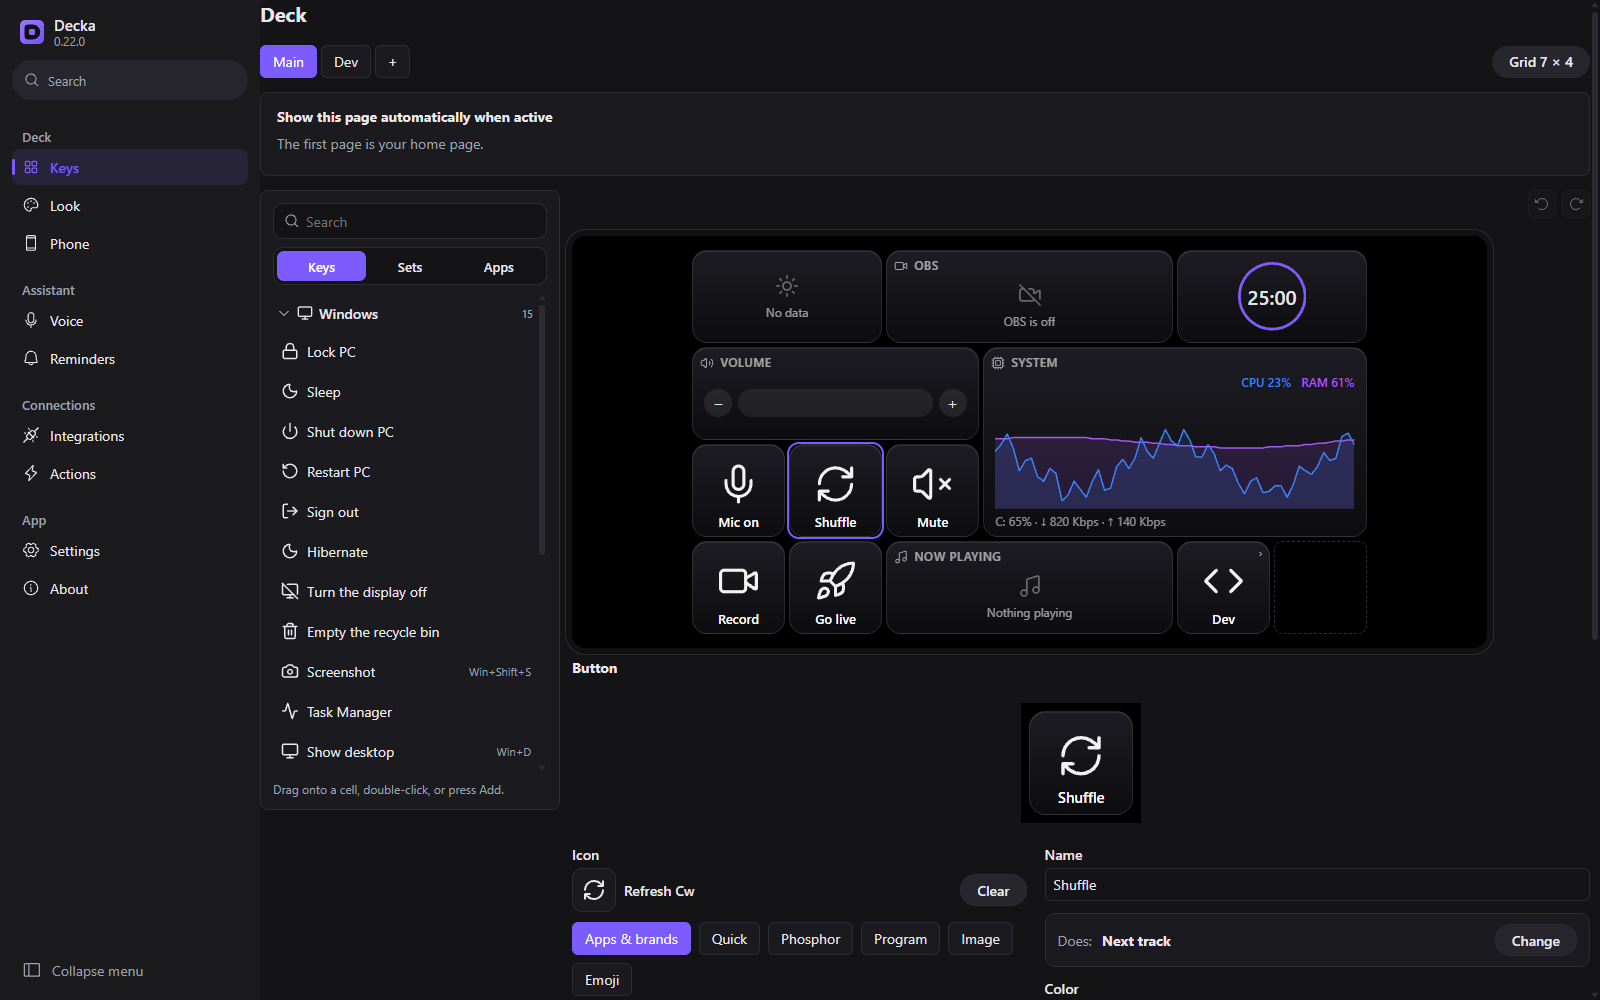
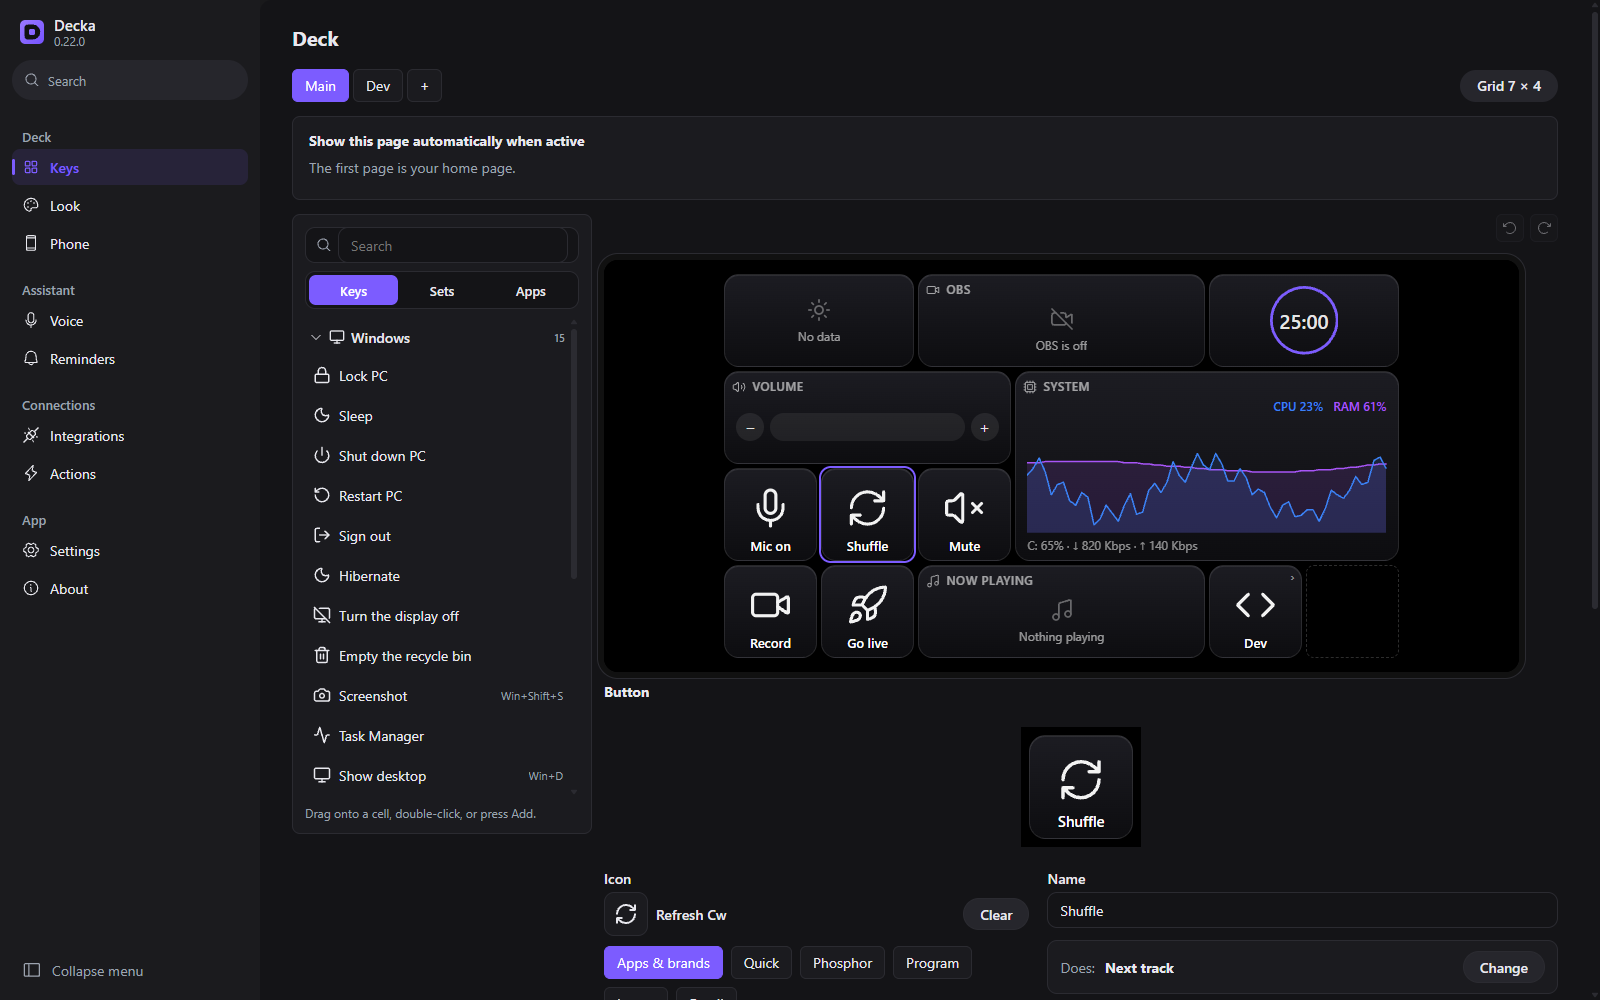
T25.x: move remaining dialogs to Modal, wrap phone segmented rows, refresh settings shots

diff --git a/agent/src/editor/SequenceEditor.tsx b/agent/src/editor/SequenceEditor.tsx
@@ -2,6 +2,7 @@ import { useEffect, useMemo, useRef, useState } from "react";
 import { dropIndex, moveStep } from "./seqOps";
 import { SEQUENCE_LIMITS, t, validateActions, type Action, type ActionsFile, type SequenceStep } from "@decka/shared";
 import Button from "../ui/Button";
+import Modal from "../ui/Modal";
 import PhIcon from "../ui/PhIcon";
 import Select from "../ui/Select";
 
@@ -60,64 +61,67 @@ export default function SequenceEditor({ actions, onSave, onClose }: SequencePro
   };
 
   return (
-    <div className="dialog-backdrop" onPointerDown={onClose}>
-      <div className="dialog sequence-dialog" role="dialog" aria-label={t("seq.title")} onPointerDown={(e) => e.stopPropagation()}>
-        <h2>{t("seq.title")}</h2>
-        <label className="field-row">
-          <span>{t("seq.name")}</span>
-          <input value={name} maxLength={60} onChange={(e) => setName(e.target.value)} />
-        </label>
-        <p className="muted">{t("seq.help")}</p>
-        {choices.length === 0 && <p className="warn-text">{t("seq.no_actions")}</p>}
-        <ol className="seq-steps" ref={list}>
-          {steps.map((step, i) => (
-            <li key={i} className={`seq-step${drag?.from === i ? " dragging" : ""}${drag && drag.over === i && drag.from !== i ? (drag.over > drag.from ? " drop-after" : " drop-before") : ""}`}>
-              <span
-                className="seq-handle"
-                role="button"
-                aria-label={t("seq.drag")}
-                title={t("seq.drag")}
-                onPointerDown={(e) => startDrag(e, i)}
-                onPointerMove={dragMove}
-                onPointerUp={dragEnd}
-                onPointerCancel={() => setDrag(null)}
-              >
-                <PhIcon name="dots-six-vertical" size={16} />
-              </span>
-              {"delayMs" in step ? (
-                <>
-                  <PhIcon name="timer" size={18} />
-                  <span>{t("seq.wait")}</span>
-                  <input type="number" min={SEQUENCE_LIMITS.delayMin} max={SEQUENCE_LIMITS.delayMax} step={50} value={step.delayMs} onChange={(e) => set(i, { delayMs: Number(e.target.value) })} />
-                  <span className="muted">{t("seq.ms")}</span>
-                </>
-              ) : (
-                <Select
-                  aria-label={t("seq.pick")}
-                  value={step.actionId}
-                  placeholder={t("seq.pick")}
-                  options={choices.map(([id, a]) => ({ value: id, label: a.name }))}
-                  onChange={(val) => set(i, { actionId: val })}
-                />
-              )}
-              <button type="button" className="icon-btn" aria-label={t("seq.up")} disabled={i === 0} onClick={() => move(i, -1)}><PhIcon name="arrow-up" size={14} /></button>
-              <button type="button" className="icon-btn" aria-label={t("seq.down")} disabled={i === steps.length - 1} onClick={() => move(i, 1)}><PhIcon name="arrow-down" size={14} /></button>
-              <button type="button" className="icon-btn" aria-label={t("seq.remove")} onClick={() => setSteps((list) => list.filter((_, n) => n !== i))}><PhIcon name="x" size={14} /></button>
-            </li>
-          ))}
-        </ol>
-        <div className="row">
-          <Button disabled={full || choices.length === 0} onClick={() => setSteps((l) => [...l, { actionId: "" }])}>{t("seq.add_step")}</Button>
-          <Button disabled={full} onClick={() => setSteps((l) => [...l, { delayMs: DEFAULT_WAIT_MS }])}>{t("seq.wait")}</Button>
-          <span className="grow" />
-          <span className="muted">{t("seq.summary", { steps: steps.length, seconds: Math.round(totalMs / 100) / 10 })}</span>
-        </div>
-        {issues.length > 0 && <ul className="warn-text">{issues.map((i, n) => <li key={n}>{i.message}</li>)}</ul>}
-        <div className="row">
-          <Button variant="primary" disabled={steps.length === 0 || steps.some((s) => "actionId" in s && s.actionId === "") || issues.length > 0} onClick={() => onSave(draft.name, steps)}>{t("seq.save")}</Button>
+    <Modal
+      title={t("seq.title")}
+      subtitle={t("seq.help")}
+      onClose={onClose}
+      className="sequence-dialog"
+      footer={
+        <>
           <Button onClick={onClose}>{t("common.cancel")}</Button>
-        </div>
+          <Button variant="primary" disabled={steps.length === 0 || steps.some((s) => "actionId" in s && s.actionId === "") || issues.length > 0} onClick={() => onSave(draft.name, steps)}>{t("seq.save")}</Button>
+        </>
+      }
+    >
+      <label className="field-row">
+        <span>{t("seq.name")}</span>
+        <input value={name} maxLength={60} onChange={(e) => setName(e.target.value)} />
+      </label>
+      {choices.length === 0 && <p className="warn-text">{t("seq.no_actions")}</p>}
+      <ol className="seq-steps" ref={list}>
+        {steps.map((step, i) => (
+          <li key={i} className={`seq-step${drag?.from === i ? " dragging" : ""}${drag && drag.over === i && drag.from !== i ? (drag.over > drag.from ? " drop-after" : " drop-before") : ""}`}>
+            <span
+              className="seq-handle"
+              role="button"
+              aria-label={t("seq.drag")}
+              title={t("seq.drag")}
+              onPointerDown={(e) => startDrag(e, i)}
+              onPointerMove={dragMove}
+              onPointerUp={dragEnd}
+              onPointerCancel={() => setDrag(null)}
+            >
+              <PhIcon name="dots-six-vertical" size={16} />
+            </span>
+            {"delayMs" in step ? (
+              <>
+                <PhIcon name="timer" size={18} />
+                <span>{t("seq.wait")}</span>
+                <input type="number" min={SEQUENCE_LIMITS.delayMin} max={SEQUENCE_LIMITS.delayMax} step={50} value={step.delayMs} onChange={(e) => set(i, { delayMs: Number(e.target.value) })} />
+                <span className="muted">{t("seq.ms")}</span>
+              </>
+            ) : (
+              <Select
+                aria-label={t("seq.pick")}
+                value={step.actionId}
+                placeholder={t("seq.pick")}
+                options={choices.map(([id, a]) => ({ value: id, label: a.name }))}
+                onChange={(val) => set(i, { actionId: val })}
+              />
+            )}
+            <button type="button" className="icon-btn" aria-label={t("seq.up")} disabled={i === 0} onClick={() => move(i, -1)}><PhIcon name="arrow-up" size={14} /></button>
+            <button type="button" className="icon-btn" aria-label={t("seq.down")} disabled={i === steps.length - 1} onClick={() => move(i, 1)}><PhIcon name="arrow-down" size={14} /></button>
+            <button type="button" className="icon-btn" aria-label={t("seq.remove")} onClick={() => setSteps((list) => list.filter((_, n) => n !== i))}><PhIcon name="x" size={14} /></button>
+          </li>
+        ))}
+      </ol>
+      <div className="row">
+        <Button disabled={full || choices.length === 0} onClick={() => setSteps((l) => [...l, { actionId: "" }])}>{t("seq.add_step")}</Button>
+        <Button disabled={full} onClick={() => setSteps((l) => [...l, { delayMs: DEFAULT_WAIT_MS }])}>{t("seq.wait")}</Button>
+        <span className="grow" />
+        <span className="muted">{t("seq.summary", { steps: steps.length, seconds: Math.round(totalMs / 100) / 10 })}</span>
       </div>
-    </div>
+      {issues.length > 0 && <ul className="warn-text">{issues.map((i, n) => <li key={n}>{i.message}</li>)}</ul>}
+    </Modal>
   );
 }

diff --git a/agent/src/tabs/IntegrationsTab.tsx b/agent/src/tabs/IntegrationsTab.tsx
@@ -18,6 +18,7 @@ import LyricsSection from "./LyricsSection";
 import { lyricsGet, lyricsOverlaySet, lyricsSet } from "./lyricsIpc";
 import Switch from "../ui/Switch";
 import Disclosure from "../ui/Disclosure";
+import Modal from "../ui/Modal";
 import {
   filterIntegrations,
   type IntegrationCategory,
@@ -367,37 +368,12 @@ export default function IntegrationsTab() {
             </Group>
 
             {editing && (
-              <div className="dialog-backdrop">
-                <div className="dialog" role="dialog" aria-label={t("integ.check")}>
-                  <h2>{editing.index < 0 ? t("integ.add_check") : t("integ.edit_check")}</h2>
-                  <Field label={t("integ.check_name")}>
-                    <input autoFocus value={editing.check.label} onChange={(e) => setEditing({ ...editing, check: { ...editing.check, label: e.target.value } })} />
-                  </Field>
-                  <Field label={t("integ.check_address")}>
-                    <input value={editing.check.url} onChange={(e) => setEditing({ ...editing, check: { ...editing.check, url: e.target.value } })} />
-                  </Field>
-                  <Disclosure title={t("common.more_options")}>
-                    <div className="grid-4">
-                      <Field label={t("integ.check_every")}>
-                        <input type="number" value={editing.check.intervalSec} onChange={(e) => setEditing({ ...editing, check: { ...editing.check, intervalSec: Number(e.target.value) } })} />
-                      </Field>
-                      <Field label={t("integ.give_up")}>
-                        <input type="number" value={editing.check.timeoutSec} onChange={(e) => setEditing({ ...editing, check: { ...editing.check, timeoutSec: Number(e.target.value) } })} />
-                      </Field>
-                      <Field label={t("integ.expected")} hint={t("integ.expected_hint")}>
-                        <input
-                          type="number"
-                          placeholder="200"
-                          value={editing.check.expectStatus ?? ""}
-                          onChange={(e) => setEditing({ ...editing, check: { ...editing.check, expectStatus: e.target.value === "" ? undefined : Number(e.target.value) } })}
-                        />
-                      </Field>
-                      <Field label={t("integ.group")}>
-                        <input value={editing.check.group ?? ""} onChange={(e) => setEditing({ ...editing, check: { ...editing.check, group: e.target.value || undefined } })} />
-                      </Field>
-                    </div>
-                  </Disclosure>
-                  <div className="row">
+              <Modal
+                title={editing.index < 0 ? t("integ.add_check") : t("integ.edit_check")}
+                onClose={() => setEditing(null)}
+                footer={
+                  <>
+                    <Button onClick={() => setEditing(null)}>{t("common.cancel")}</Button>
                     <Button
                       variant="primary"
                       onClick={() => {
@@ -408,10 +384,37 @@ export default function IntegrationsTab() {
                     >
                       {t("common.save")}
                     </Button>
-                    <Button onClick={() => setEditing(null)}>{t("common.cancel")}</Button>
+                  </>
+                }
+              >
+                <Field label={t("integ.check_name")}>
+                  <input autoFocus value={editing.check.label} onChange={(e) => setEditing({ ...editing, check: { ...editing.check, label: e.target.value } })} />
+                </Field>
+                <Field label={t("integ.check_address")}>
+                  <input value={editing.check.url} onChange={(e) => setEditing({ ...editing, check: { ...editing.check, url: e.target.value } })} />
+                </Field>
+                <Disclosure title={t("common.more_options")}>
+                  <div className="grid-4">
+                    <Field label={t("integ.check_every")}>
+                      <input type="number" value={editing.check.intervalSec} onChange={(e) => setEditing({ ...editing, check: { ...editing.check, intervalSec: Number(e.target.value) } })} />
+                    </Field>
+                    <Field label={t("integ.give_up")}>
+                      <input type="number" value={editing.check.timeoutSec} onChange={(e) => setEditing({ ...editing, check: { ...editing.check, timeoutSec: Number(e.target.value) } })} />
+                    </Field>
+                    <Field label={t("integ.expected")} hint={t("integ.expected_hint")}>
+                      <input
+                        type="number"
+                        placeholder="200"
+                        value={editing.check.expectStatus ?? ""}
+                        onChange={(e) => setEditing({ ...editing, check: { ...editing.check, expectStatus: e.target.value === "" ? undefined : Number(e.target.value) } })}
+                      />
+                    </Field>
+                    <Field label={t("integ.group")}>
+                      <input value={editing.check.group ?? ""} onChange={(e) => setEditing({ ...editing, check: { ...editing.check, group: e.target.value || undefined } })} />
+                    </Field>
                   </div>
-                </div>
-              </div>
+                </Disclosure>
+              </Modal>
             )}
           </div>
         )}

diff --git a/agent/src/editor/AskDialog.tsx b/agent/src/editor/AskDialog.tsx
@@ -1,6 +1,7 @@
 import { useEffect, useState } from "react";
 import { getLanguage, pickText, t, type Answer, type CatalogItem, type Page } from "@decka/shared";
 import Button from "../ui/Button";
+import Modal from "../ui/Modal";
 import Select from "../ui/Select";
 import { actionFromUrl } from "./addButton";
 import ChordField from "./ChordField";
@@ -57,43 +58,46 @@ export default function AskDialog({ item, pages, currentPageId, obs, onConfirm, 
   const needsObs = (item.ask === "obs_scene" || item.ask === "obs_input") && obs === null;
   const empty = !needsObs && (item.ask === "obs_scene" || item.ask === "obs_input" || item.ask === "page") && options.length === 0;
   return (
-    <div className="dialog-backdrop" onPointerDown={onClose}>
-      <div className="dialog ask-dialog" role="dialog" aria-label={title} onPointerDown={(e) => e.stopPropagation()}>
-        <h2>{pickText(item.name, lang)}</h2>
-        <strong>{title}</strong>
-        {item.ask === "url" && (
-          <input autoFocus placeholder="github.com" aria-label={title} value={url} onChange={(e) => { setUrl(e.target.value); setError(null); }} onKeyDown={(e) => e.key === "Enter" && confirm()} />
-        )}
-        {item.ask === "text" && (
-          <input autoFocus maxLength={item.action?.type === "youtube" ? 200 : 500} aria-label={title} value={text} onChange={(e) => { setText(e.target.value); setError(null); }} onKeyDown={(e) => e.key === "Enter" && confirm()} />
-        )}
-        {item.ask === "keys" && <ChordField keys={keys} onChange={(k) => { setKeys(k); setError(null); }} />}
-        {needsObs && (
-          <>
-            <p className="muted">{t("ask.connect_obs")}</p>
-            <div className="row"><Button onClick={onOpenObs}>{t("ask.open_obs")}</Button></div>
-          </>
-        )}
-        {!needsObs && item.ask !== "url" && item.ask !== "keys" && item.ask !== "text" && (
-          empty ? (
-            <p className="muted">{item.ask === "page" ? t("ask.no_pages") : t("ask.connect_obs")}</p>
-          ) : (
-            <Select
-              autoFocus
-              aria-label={title}
-              value={choice}
-              placeholder={t("ask.choose")}
-              options={options.map((o) => ({ value: o.id, label: o.label }))}
-              onChange={(val) => { setChoice(val); setError(null); }}
-            />
-          )
-        )}
-        {error && <small className="warn-text">{error}</small>}
-        <div className="row">
-          <Button variant="primary" disabled={needsObs || empty} onClick={confirm}>{t("library.add")}</Button>
+    <Modal
+      title={pickText(item.name, lang)}
+      subtitle={title}
+      onClose={onClose}
+      className="ask-dialog"
+      footer={
+        <>
           <Button onClick={onClose}>{t("common.cancel")}</Button>
-        </div>
-      </div>
-    </div>
+          <Button variant="primary" disabled={needsObs || empty} onClick={confirm}>{t("library.add")}</Button>
+        </>
+      }
+    >
+      {item.ask === "url" && (
+        <input autoFocus placeholder="github.com" aria-label={title} value={url} onChange={(e) => { setUrl(e.target.value); setError(null); }} onKeyDown={(e) => e.key === "Enter" && confirm()} />
+      )}
+      {item.ask === "text" && (
+        <input autoFocus maxLength={item.action?.type === "youtube" ? 200 : 500} aria-label={title} value={text} onChange={(e) => { setText(e.target.value); setError(null); }} onKeyDown={(e) => e.key === "Enter" && confirm()} />
+      )}
+      {item.ask === "keys" && <ChordField keys={keys} onChange={(k) => { setKeys(k); setError(null); }} />}
+      {needsObs && (
+        <>
+          <p className="muted">{t("ask.connect_obs")}</p>
+          <div className="row"><Button onClick={onOpenObs}>{t("ask.open_obs")}</Button></div>
+        </>
+      )}
+      {!needsObs && item.ask !== "url" && item.ask !== "keys" && item.ask !== "text" && (
+        empty ? (
+          <p className="muted">{item.ask === "page" ? t("ask.no_pages") : t("ask.connect_obs")}</p>
+        ) : (
+          <Select
+            autoFocus
+            aria-label={title}
+            value={choice}
+            placeholder={t("ask.choose")}
+            options={options.map((o) => ({ value: o.id, label: o.label }))}
+            onChange={(val) => { setChoice(val); setError(null); }}
+          />
+        )
+      )}
+      {error && <small className="warn-text">{error}</small>}
+    </Modal>
   );
 }

diff --git a/agent/src/tabs/OrientationSection.tsx b/agent/src/tabs/OrientationSection.tsx
@@ -4,6 +4,7 @@ import { EMPTY_DATA, GlassLayer, Grid, resolveTheme } from "@decka/ui";
 import { call } from "../ipc";
 import Banner from "../ui/Banner";
 import Button from "../ui/Button";
+import Modal from "../ui/Modal";
 import PhIcon from "../ui/PhIcon";
 import PhoneFrame from "./PhoneFrame";
 
@@ -112,19 +113,21 @@ export default function OrientationSection({ orientation, onChanged }: Props) {
       {error && <Banner kind="error">{error}</Banner>}
       {message && <Banner kind="success">{message}</Banner>}
       {pending && (
-        <div className="dialog-backdrop">
-          <div className="dialog" role="dialog" aria-label={t("orientation.title")}>
-            <h2>{t(`orientation.turn_to_${pending.to}`)}</h2>
-            <Preview layout={pending.layout} />
-            <p className="muted">{pending.moved > 0 ? tn("orientation.moved", pending.moved) : t("orientation.nothing_moved")}</p>
-            <div className="row">
+        <Modal
+          title={t(`orientation.turn_to_${pending.to}`)}
+          onClose={() => setPending(null)}
+          footer={
+            <>
+              <Button onClick={() => setPending(null)}>{t("common.cancel")}</Button>
               <Button variant="primary" onClick={() => void confirm()}>
                 {t("orientation.rotate")}
               </Button>
-              <Button onClick={() => setPending(null)}>{t("common.cancel")}</Button>
-            </div>
-          </div>
-        </div>
+            </>
+          }
+        >
+          <Preview layout={pending.layout} />
+          <p className="muted" style={{ margin: 0 }}>{pending.moved > 0 ? tn("orientation.moved", pending.moved) : t("orientation.nothing_moved")}</p>
+        </Modal>
       )}
     </>
   );

diff --git a/agent/src/styles.css b/agent/src/styles.css
@@ -902,8 +902,7 @@ select.settings-select,
 .chip { display: inline-flex; align-items: center; gap: 4px; padding: 2px 4px 2px 10px; border: 1px solid var(--border); border-radius: 999px; background: var(--bg); font-family: Consolas, "Cascadia Mono", monospace; font-size: 13px; }
 .chip-x { border: 0; background: transparent; color: var(--muted); font-size: 16px; line-height: 1; cursor: pointer; padding: 0 6px; }
 .chip-x:hover { color: var(--danger); }
-.dialog-backdrop { position: fixed; inset: 0; z-index: 50; display: flex; align-items: center; justify-content: center; background: rgba(0, 0, 0, 0.45); }
-.dialog { display: flex; flex-direction: column; gap: 12px; width: min(640px, 92vw); max-height: 86vh; overflow: auto; padding: 20px 22px; border: 1px solid var(--border); border-radius: 10px; background: var(--bg); }
+.modal-backdrop { position: fixed; inset: 0; z-index: 50; display: flex; align-items: center; justify-content: center; background: rgba(0, 0, 0, 0.45); }
 /* Appearance, first-run guide, side menu (T13.10) */
 .tab { display: flex; align-items: center; gap: 10px; }
 .theme-cards { display: grid; grid-template-columns: repeat(auto-fill, minmax(230px, 1fr)); gap: 12px; }

diff --git a/client/src/styles.css b/client/src/styles.css
@@ -354,9 +354,12 @@ input { user-select: text; touch-action: manipulation; }
 .phone-row-icon { flex: none; color: var(--sheet-muted); }
 .phone-row-icon.accent { color: var(--accent, #7c5cff); }
 .phone-row-label { flex: 1; min-width: 0; }
+.phone-row:has(.phone-seg),
 .phone-row-wrap { flex-wrap: wrap; row-gap: 8px; }
+.phone-row:has(.phone-seg) .phone-row-label,
 .phone-row-wrap .phone-row-label { flex: 1 0 auto; min-width: max-content; white-space: nowrap; }
-.phone-row-wrap .phone-seg { margin-inline-start: auto; max-width: 100%; }
+.phone-row:has(.phone-seg) .phone-seg,
+.phone-row-wrap .phone-seg { margin-inline-start: auto; max-width: 100%; flex-wrap: wrap; }
 .menu-status-row { color: var(--sheet-muted); font-size: 14px; }
 
 .phone-switch {

diff --git a/agent/src/ui/Modal.tsx b/agent/src/ui/Modal.tsx
@@ -20,7 +20,7 @@ export default function Modal({ title, subtitle, onClose, children, footer, clas
   }, [onClose]);
 
   return (
-    <div className="dialog-backdrop" onPointerDown={onClose}>
+    <div className="modal-backdrop" onPointerDown={onClose}>
       <div
         className={`modal-card${className ? ` ${className}` : ""}`}
         role="dialog"
